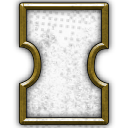
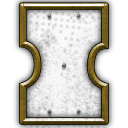
add  rem shield nails

diff --git a/site-config.js b/site-config.js
@@ -1,4 +1,4 @@
 // Update this value for each published revision of the editor.
 window.SITE_CONFIG = {
-  version: '0.1.4'
+  version: '0.1.5'
 };
